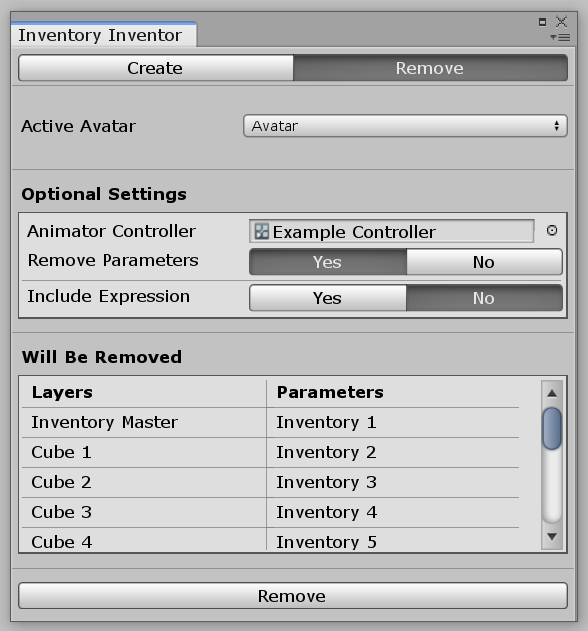
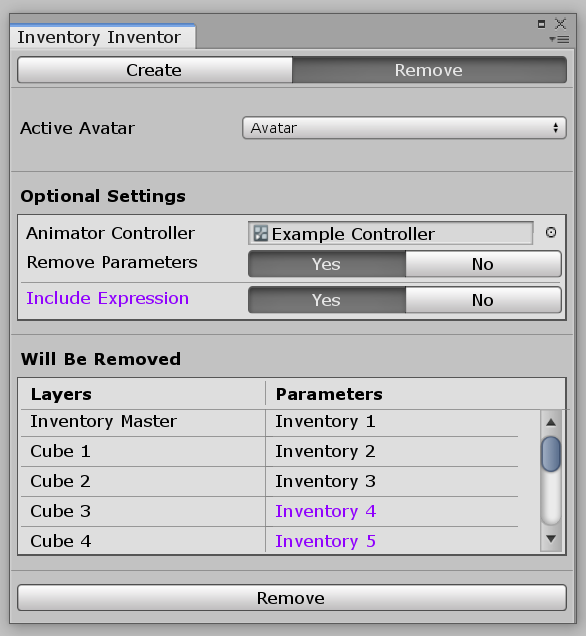
Changed the removal menu to highlight removed expression parameters in purple

Changed region(s): [[0.0, 0.0, 0.9829, 0.9937], [0.7986, 0.3914, 0.8294, 0.4216]]

diff --git a/Editor/Windows/InventoryInventorWindow.cs b/Editor/Windows/InventoryInventorWindow.cs
@@ -27,6 +27,10 @@ namespace InventoryInventor
         // Removal Preview.
         private List<AnimatorControllerLayer> layers;
         private List<AnimatorControllerParameter> parameters;
+        private List<bool> expression;
+
+        // Colors
+        private readonly static Color32 navy = new Color32(143, 0, 254, 255);
 
         [MenuItem("Tools/Avatars 3.0/Inventory Inventor/Manage Inventory", priority = 0)]
         public static void ManageInventory()
@@ -123,7 +127,7 @@ namespace InventoryInventor
             manager.controller = (AnimatorController)EditorGUILayout.ObjectField(new GUIContent("Animator Controller", "The Animator Controller to modify.\n(If left empty, a new Animator Controller will be created and used.)"), manager.controller, typeof(AnimatorController), false);
             if (EditorGUI.EndChangeCheck())
             {
-                manager.PreviewRemoval(out layers, out parameters);
+                manager.PreviewRemoval(out layers, out parameters, out expression);
             }
             EditorGUILayout.EndVertical();
             EditorGUILayout.Space();
@@ -185,7 +189,7 @@ namespace InventoryInventor
             {
                 manager.CreateInventory();
                 EditorUtility.ClearProgressBar();
-                manager.PreviewRemoval(out layers, out parameters);
+                manager.PreviewRemoval(out layers, out parameters, out expression);
             }
             EditorGUILayout.EndVertical();
 
@@ -246,15 +250,18 @@ namespace InventoryInventor
                 EditorGUILayout.EndHorizontal();
 
                 EditorGUILayout.BeginHorizontal();
+                var old = EditorStyles.label.normal.textColor;
+                EditorStyles.label.normal.textColor = navy;
                 EditorGUILayout.PrefixLabel(new GUIContent("Include Expression", "Also remove any related Expression Parameters."));
                 manager.removeExpParams = !Convert.ToBoolean(GUILayout.Toolbar(Convert.ToInt32(!manager.removeExpParams), new string[] { "Yes", "No" }));
+                EditorStyles.label.normal.textColor = old;
                 EditorGUILayout.EndHorizontal();
                 EditorGUILayout.BeginHorizontal(GUILayout.Height(5f));
                 EditorGUILayout.EndHorizontal();
             }
-            if (EditorGUI.EndChangeCheck() || layers == null || parameters == null)
+            if (EditorGUI.EndChangeCheck() || layers == null || parameters == null || expression == null)
             {
-                manager.PreviewRemoval(out layers, out parameters);
+                manager.PreviewRemoval(out layers, out parameters, out expression);
             }
             EditorGUILayout.EndVertical();
             EditorGUILayout.Space();
@@ -324,7 +331,10 @@ namespace InventoryInventor
                             EditorGUILayout.EndHorizontal();
                         }
 
-                        EditorGUILayout.LabelField(parameters[i].name, GUILayout.Width(155f));
+                        if (manager.removeExpParams && expression[i])
+                            EditorGUILayout.LabelField(parameters[i].name, new GUIStyle(GUI.skin.label) { normal = new GUIStyleState() { textColor = navy } }, GUILayout.Width(155f));
+                        else
+                            EditorGUILayout.LabelField(parameters[i].name, GUILayout.Width(155f));
                     }
                 }
                 EditorGUILayout.EndVertical();
@@ -357,7 +367,7 @@ namespace InventoryInventor
                 {
                     manager.RemoveInventory();
                     EditorUtility.ClearProgressBar();
-                    manager.PreviewRemoval(out layers, out parameters);
+                    manager.PreviewRemoval(out layers, out parameters, out expression);
                 }
             }
             EditorGUILayout.EndVertical();
@@ -400,7 +410,7 @@ namespace InventoryInventor
                     manager.controller = manager.avatar.baseAnimationLayers.Length == 5 ? ((manager.avatar.baseAnimationLayers[4].animatorController != null) ? (AnimatorController)manager.avatar.baseAnimationLayers[4].animatorController : null) : ((manager.avatar.baseAnimationLayers[2].animatorController != null) ? (AnimatorController)manager.avatar.baseAnimationLayers[2].animatorController : null);
 
                 if (manager.controller != null)
-                    manager.PreviewRemoval(out layers, out parameters);
+                    manager.PreviewRemoval(out layers, out parameters, out expression);
 
                 if (manager.menu == null)
                     manager.menu = manager.avatar.expressionsMenu != null ? manager.avatar.expressionsMenu : null;

diff --git a/Editor/Scripts/InventoryInventor.cs b/Editor/Scripts/InventoryInventor.cs
@@ -1714,10 +1714,11 @@ namespace InventoryInventor
         }
 
         // Returns a list of layers and parameters that would be removed with the current settings.
-        public void PreviewRemoval(out List<AnimatorControllerLayer> layers, out List<AnimatorControllerParameter> parameters)
+        public void PreviewRemoval(out List<AnimatorControllerLayer> layers, out List<AnimatorControllerParameter> parameters, out List<bool> expression)
         {
             layers = new List<AnimatorControllerLayer>();
             parameters = new List<AnimatorControllerParameter>();
+            expression = new List<bool>();
 
             if (controller == null)
                 return;
@@ -1732,6 +1733,21 @@ namespace InventoryInventor
                     if (nameFilter.IsMatch(controller.parameters[i].name))
                     {
                         parameters.Add(controller.parameters[i]);
+                        if (avatar != null && avatar.expressionParameters != null)
+                        {
+                            bool found = false;
+                            foreach (VRCExpressionParameters.Parameter parameter in avatar.expressionParameters.parameters)
+                                if (controller.parameters[i].name == parameter.name)
+                                {
+                                    expression.Add(true);
+                                    found = true;
+                                    break;
+                                }
+                            if (!found)
+                                expression.Add(false);
+                        }
+                        else
+                            expression.Add(false);
                     }
                 }
             }

diff --git a/README.md b/README.md
@@ -200,16 +200,16 @@ The 'Create' menu is used for creating an Inventory from a given Preset and appl
 </p>
 
 The 'Remove' menu is used for removing an existing Inventory from a provided Animator Controller.
->This will **NOT** remove or delete any menus or Expression Parameters from an Avatar by default.
+>This will **NOT** remove or delete any created menus or other files created by the tool.
 
-Any layers or parameters that will be removed from the provided Controller during the operation will be shown under 'Will Be Removed'.
+Any layers or parameters that will be removed from the provided Controller during the operation will be shown under 'Will Be Removed'. If you choose to use 'Include Expression', any Expression Parameters to be removed will be highlighted in purple.
 
 | Setting | Description |
 | :----: | ------ |
 | Active Avatar | The Avatar you want to manage an Inventory for. |
 | Animator Controller | The Animator Controller to modify. |
 | Remove Parameters | Remove all parameters involved with the Inventory<br>(If you have other parameters named "Inventory ###", they will also be removed). |
-| Expression Parameters? | (When using Remove Parameters,) also remove Expression Parameters related to the removed parameters if they exist. |
+| Include Expression | (When using Remove Parameters,) also remove Expression Parameters related to the removed parameters if they exist. |
 
 ## Common Questions
 **Can I have multiple Inventories on a single Avatar?**
